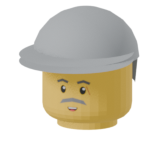
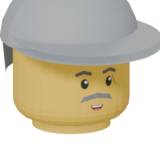
Card battle: the heads closer and turned to the screen's middle (the opponent's looks right and down, yours right and up: <style>_<k>_up.png); a hand card let go short of the slots is played once it came 70 % of the way up (on the nearest location, if it may go there). Test battle_drag

diff --git a/wasm/src/arena.rs b/wasm/src/arena.rs
@@ -40,6 +40,10 @@ const HIDDEN: u8 = crate::town::rooms::HIDDEN_LAYER;
 /// The gap between slots (the card width on the board is `Lay::bw`).
 const GAP: f32 = 0.06;
 const FOV: f32 = 40.0;
+/// How far up (0..1, from where it was picked to a location's slots) a hand card must have been dragged to be played
+/// when let go short of them.
+const DRAG_SNAP: f32 = 0.7;
+
 /// Hand cards and the big card: depth in front of the camera.
 const HAND_D: f32 = 2.0;
 const INSPECT_D: f32 = 1.3;
@@ -1203,7 +1207,9 @@ impl BattleScreen {
                 }
                 data.sound.sfx(ctx, Sfx::Blip, 1.2, 0.35);
             }
-            Some(Press::Card { ci, from_hand, moved: true, .. }) => {
+            Some(Press::Card { ci, from_hand, moved: true, start }) => {
+                // (a hand card let go short of the slots: played anyway once it came 70 % of the way up to them)
+                let over = if from_hand && over.is_none() { self.drag_most_way(ctx, ci, start, p) } else { over };
                 let b = self.b.as_mut().unwrap();
                 if from_hand {
                     if let Some(t) = over.filter(|&t| t < 3) {
@@ -1255,6 +1261,29 @@ impl BattleScreen {
                 }
             }
         }
+    }
+
+    /// A hand card dragged from `start` and let go at `p` (CSS px) outside the slots: the location whose column is
+    /// nearest on screen, if the card came at least `DRAG_SNAP` of the way up from where it was picked to that
+    /// location's slots and may be played there.
+    fn drag_most_way(&self, ctx: &Ctx, ci: usize, start: Vec2, p: Vec2) -> Option<usize> {
+        let l = self.lay;
+        let mut best: Option<(f32, usize, f32)> = None;
+        for z in 0..3 {
+            let slots = BASE + Vec3::new(l.zone_x(z), 0.0, l.row0 + l.step * 0.5);
+            let Some([sx, sy]) = self.screen_of(ctx, slots) else { continue };
+            let dx = (p.x - sx).abs();
+            if best.is_none_or(|b| dx < b.0) {
+                best = Some((dx, z, sy));
+            }
+        }
+        let (_, z, sy) = best?;
+        let way = start.y - sy;
+        if way <= 1.0 || p.y >= l.h - l.bottom_px * 0.5 {
+            return None;
+        }
+        let done = (start.y - p.y) / way;
+        (done >= DRAG_SNAP && self.b().can_play(ci, z)).then_some(z)
     }
 
     /// The pointer is on the big card (taps there do not close it).
@@ -2189,7 +2218,7 @@ impl BattleScreen {
         let me_first = leader == Some(SIDE_P);
         let bottom = format!(
             "<div class='bt-bot{ph}' style='--bh:{bh:.0}px;--orb:{orb:.0}px'><div class='bt-orb{spent}'><b>{left}<small>/{en}</small></b><span>ENERGY</span></div>\
-             <div class='bt-me'><div class='bt-port{lit}' style='background:#1e6fe0;width:46px;height:46px;font-size:10px'><img class='bt-head on' src='assets/portraits/player_0.png' alt='YOU'>{mb}</div></div>\
+             <div class='bt-me'><div class='bt-port{lit}' style='background:#1e6fe0;width:46px;height:46px;font-size:10px'><img class='bt-head on' src='assets/portraits/player_0_up.png' alt='YOU'>{mb}</div></div>\
              <div class='bt-ctl'><button class='bt-btn blue{go}' data-action='bt_end'{endd}>{endl}</button><button class='bt-btn' data-action='bt_undo'{undod}>Undo</button></div></div>",
             ph = if l.phone { " phone" } else { "" },
             bh = l.bottom_px,

diff --git a/wasm/tools/portraits/render_heads.py b/wasm/tools/portraits/render_heads.py
@@ -1,12 +1,14 @@
 """The battle's portraits: each minifig head (assets/minifig/<style>/head.glb, and its talking prints head_mouth1/2)
-rendered small on a transparent background -> assets/portraits/<style>_<0|1|2>.png. The battle shows the opponent's
-and yours instead of a letter, and swaps the opponent's by the voice's loudness while it talks.
+rendered small on a transparent background, turned toward the screen's middle: <style>_<0|1|2>.png look right and a
+little down (the opponent's, top left), <style>_<0|1|2>_up.png right and a little up (yours, bottom left). The battle
+shows them instead of a letter and swaps the opponent's by the voice's loudness while it talks.
 Run: blender -b --factory-startup --python tools/portraits/render_heads.py -- <repo wasm dir>
 """
 import bpy, sys, math, mathutils
 root = sys.argv[sys.argv.index('--') + 1]
 STYLES = ["player", "dex", "lumi", "pip", "quill", "mom", "baker", "knight"]
 for style in STYLES:
+  for suffix, lift in (("", 0.32), ("_up", -0.22)):
     for k, name in enumerate(["head", "head_mouth1", "head_mouth2"]):
         bpy.ops.wm.read_factory_settings(use_empty=True)
         sc = bpy.context.scene
@@ -21,9 +23,12 @@ for style in STYLES:
         size = max(hi - lo)
         cam = bpy.data.objects.new('cam', bpy.data.cameras.new('cam')); sc.collection.objects.link(cam); sc.camera = cam
         cam.data.type = 'ORTHO'
-        cam.data.ortho_scale = size * 1.12
-        # the face looks along glTF +z (Blender -y): from the front, a little turned and from a little above
-        d = mathutils.Vector((0.35, -1.0, 0.25)).normalized() * size * 4
+        # (close: the face fills the frame, the hair or hat cut at the top)
+        cam.data.ortho_scale = size * 0.86
+        c = c - mathutils.Vector((0.0, 0.0, size * 0.06))
+        # the face looks along glTF +z (Blender -y): the camera off to its left (it looks right, to the screen's
+        # middle) and above (it looks down) or below (up)
+        d = mathutils.Vector((-0.5, -1.0, lift)).normalized() * size * 4
         cam.location = c + d
         cam.rotation_euler = (c - cam.location).to_track_quat('-Z', 'Y').to_euler()
         sun = bpy.data.objects.new('sun', bpy.data.lights.new('sun', 'SUN')); sc.collection.objects.link(sun)
@@ -39,6 +44,6 @@ for style in STYLES:
         sc.render.resolution_x = sc.render.resolution_y = 160
         sc.render.image_settings.file_format = 'PNG'
         sc.render.image_settings.color_mode = 'RGBA'
-        sc.render.filepath = f"{root}/assets/portraits/{style}_{k}.png"
+        sc.render.filepath = f"{root}/assets/portraits/{style}_{k}{suffix}.png"
         bpy.ops.render.render(write_still=True)
 print('heads done', flush=True)
